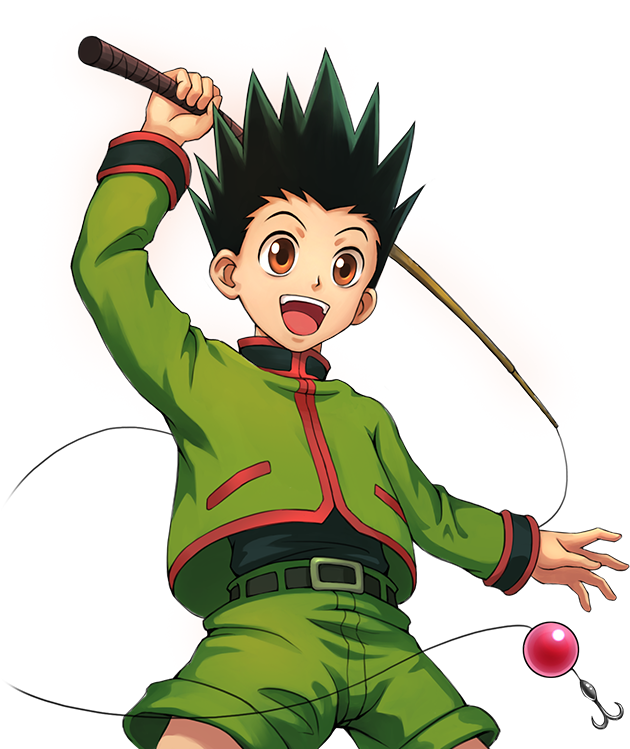
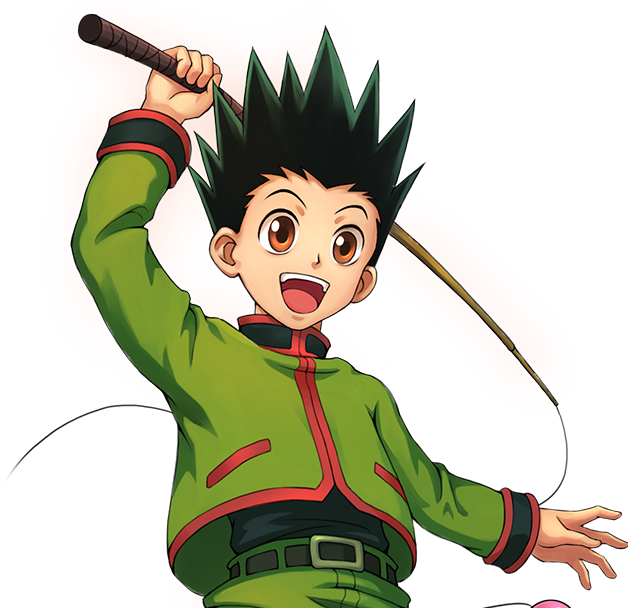
replaced gon's portrait

diff --git a/index.html b/index.html
@@ -7,7 +7,7 @@
 <body>
 	<!-- header element-->
 	<header>
-		<img src="img/Gon.png">
+		<img src="img/gonk.png">
 		<h1>Gon-kun</h1>
 	</header>
 	<!-- main element -->
